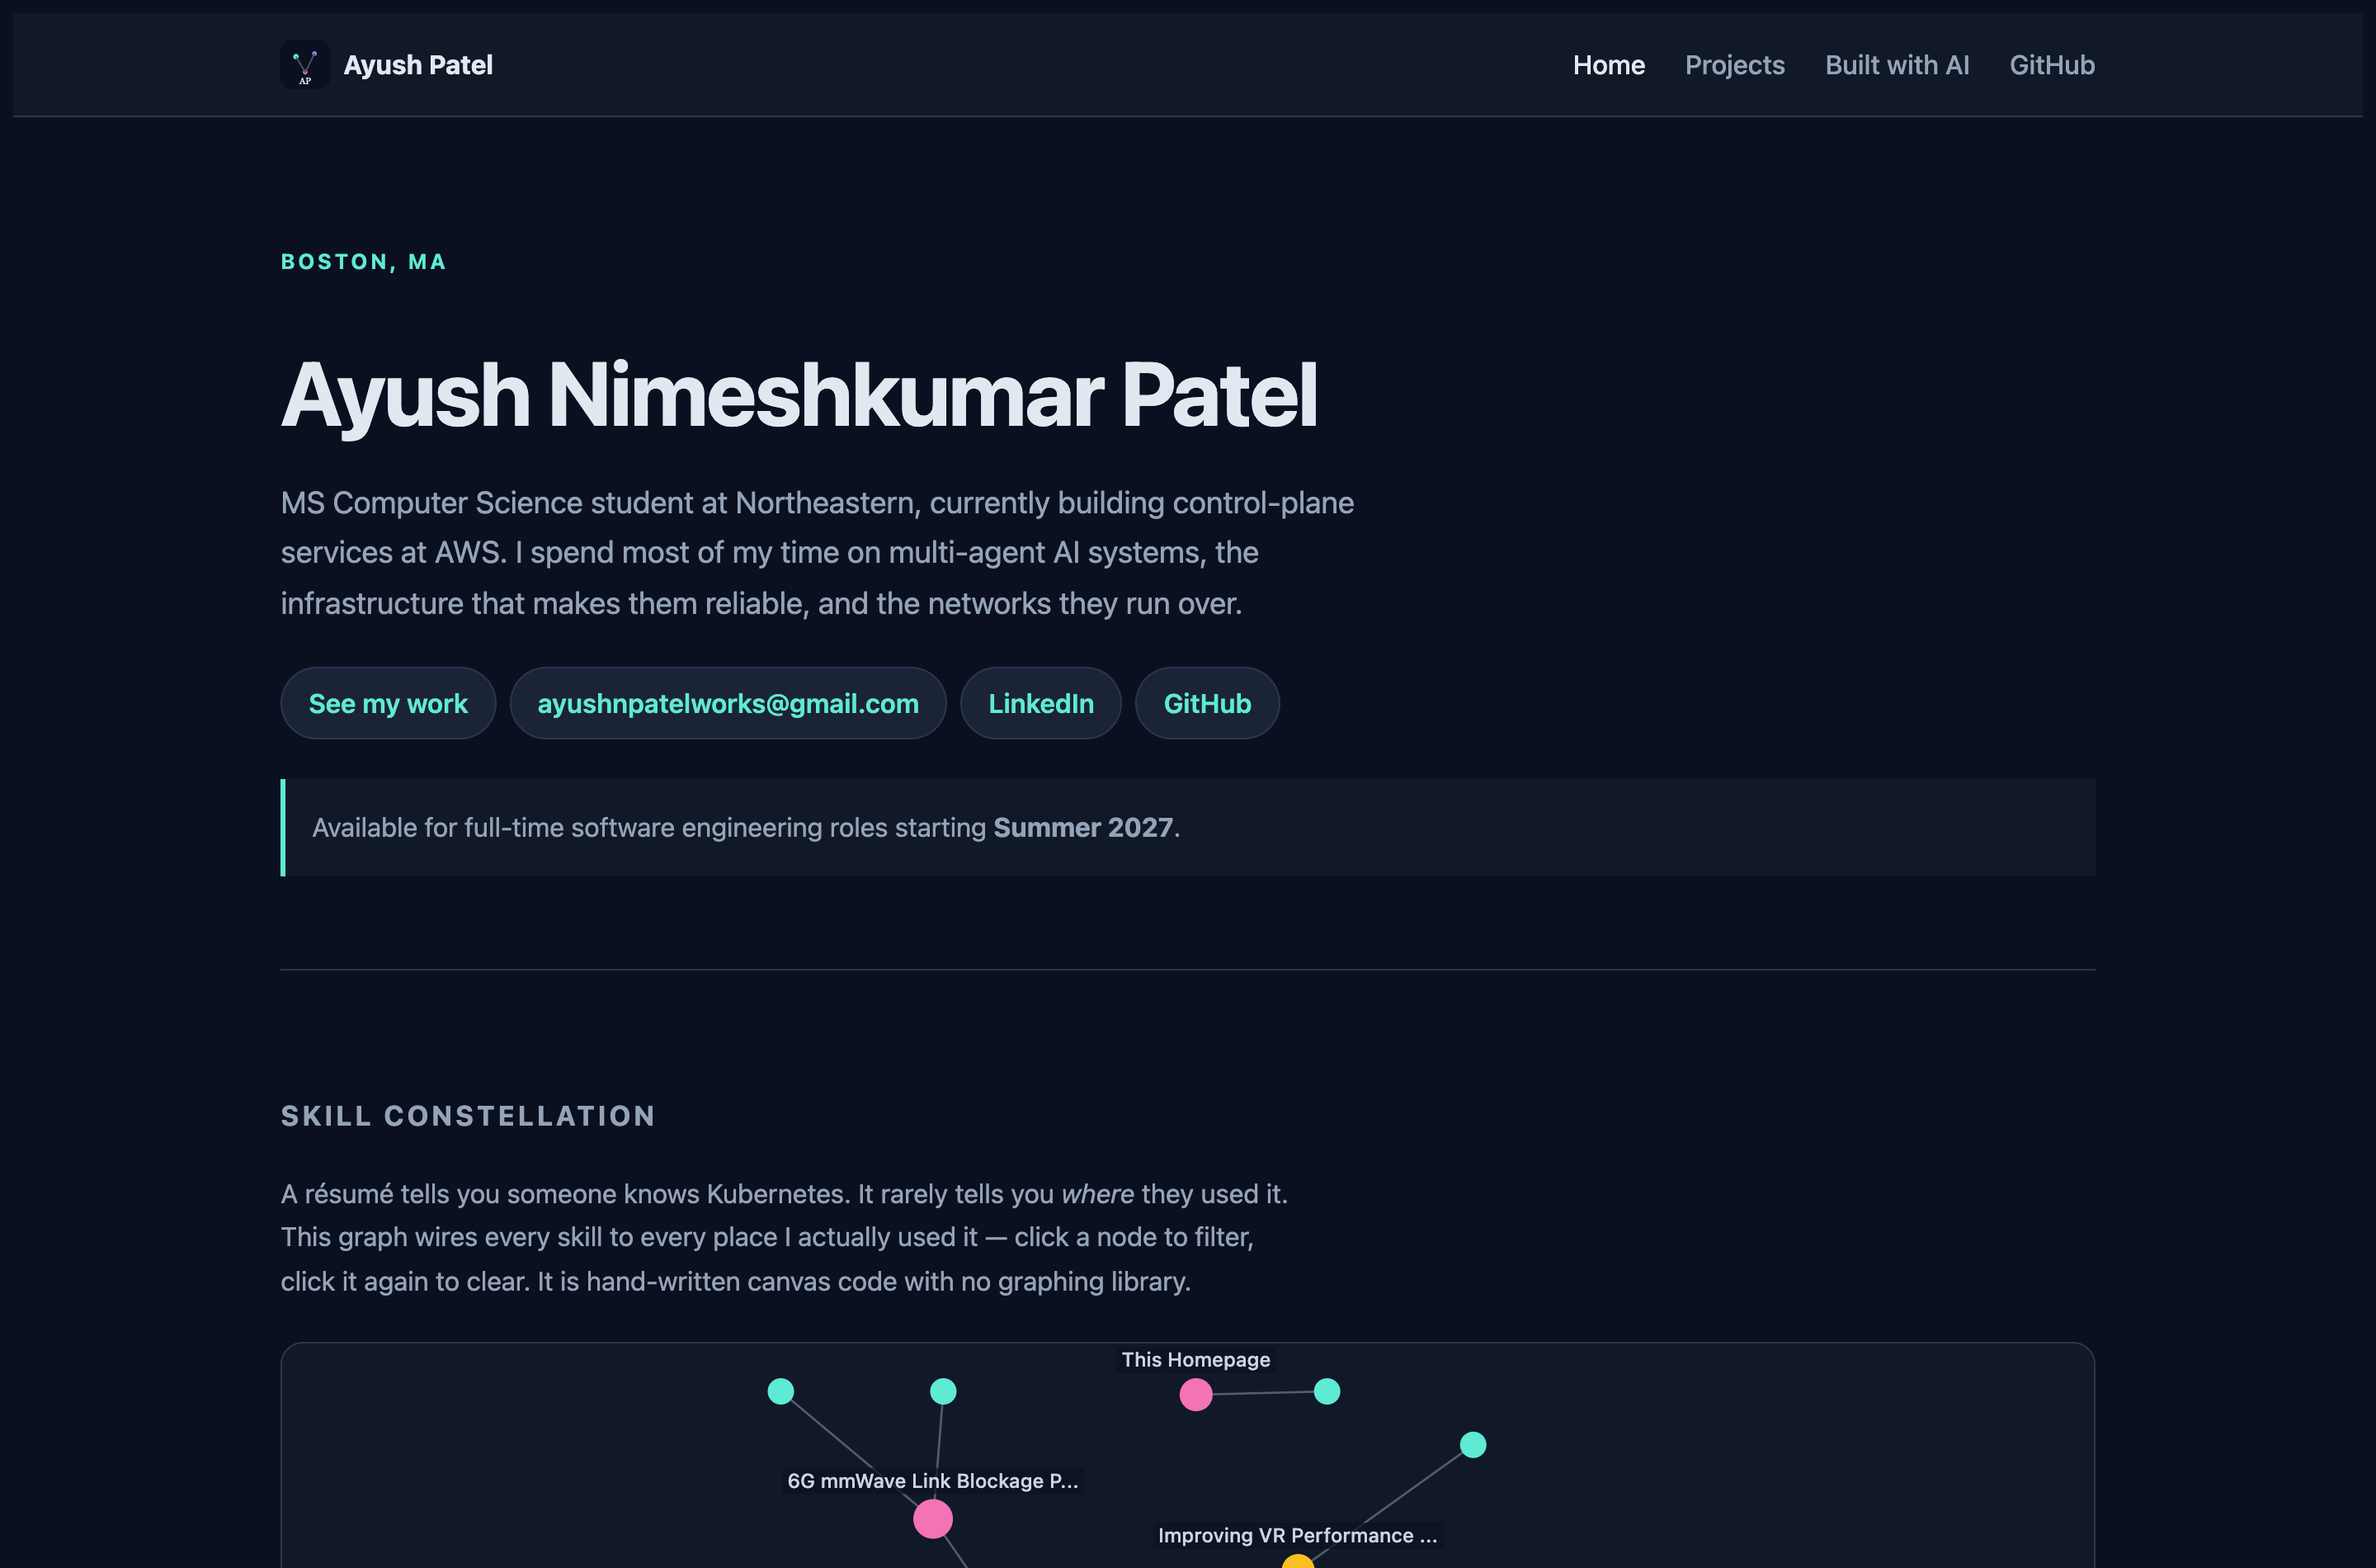
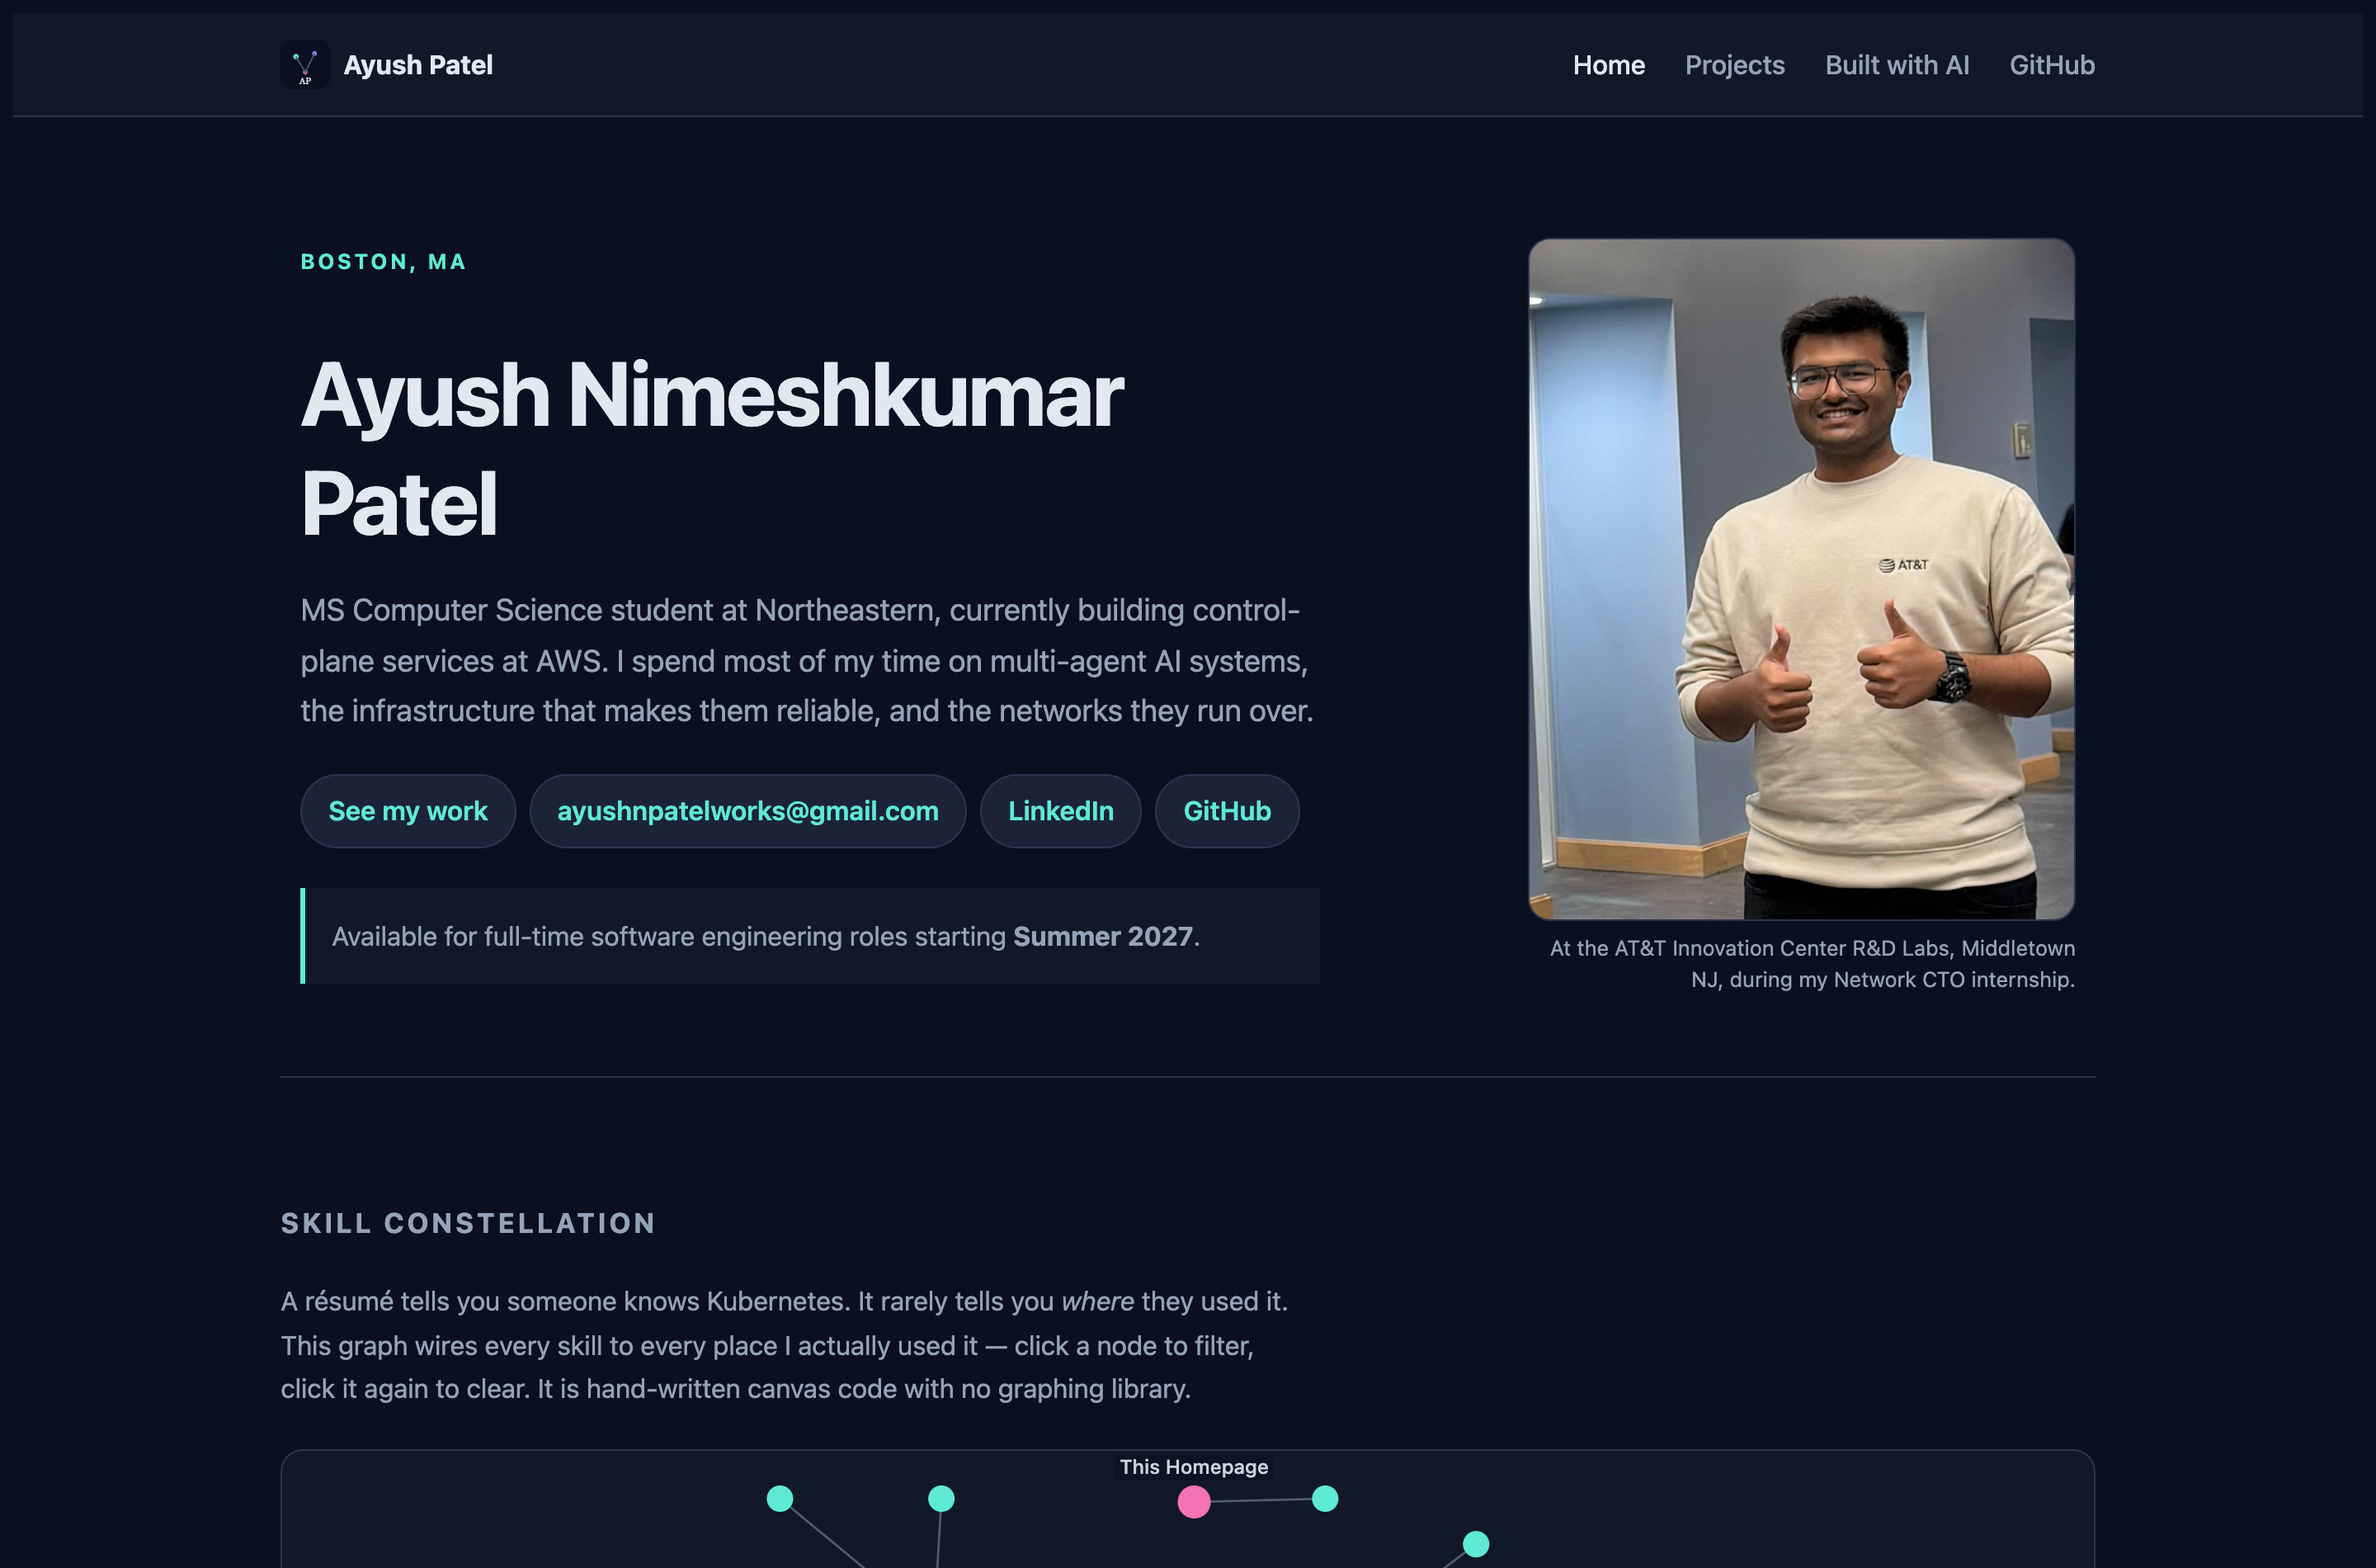
Add a portrait to the hero
Two-column hero on wide screens, stacking on mobile. Photo is cropped
to 4:5 and compressed to 94KB so it does not dominate page weight.
Refreshes the README screenshots to match.

diff --git a/index.html b/index.html
@@ -54,38 +54,59 @@
 
     <main id="main">
       <section class="page-wrap hero">
-        <p class="hero-eyebrow">Boston, MA</p>
-        <h1>Ayush Nimeshkumar Patel</h1>
-        <p class="hero-lede">
-          MS Computer Science student at Northeastern, currently building
-          control-plane services at AWS. I spend most of my time on multi-agent
-          AI systems, the infrastructure that makes them reliable, and the
-          networks they run over.
-        </p>
+        <div class="row g-4 align-items-center">
+          <div class="col-12 col-lg-7">
+            <p class="hero-eyebrow">Boston, MA</p>
+            <h1>Ayush Nimeshkumar Patel</h1>
+            <p class="hero-lede">
+              MS Computer Science student at Northeastern, currently building
+              control-plane services at AWS. I spend most of my time on
+              multi-agent AI systems, the infrastructure that makes them
+              reliable, and the networks they run over.
+            </p>
 
-        <ul class="hero-links">
-          <li><a href="projects.html">See my work</a></li>
-          <li>
-            <a href="mailto:ayushnpatelworks@gmail.com"
-              >ayushnpatelworks@gmail.com</a
-            >
-          </li>
-          <li>
-            <a
-              href="https://www.linkedin.com/in/ayush-patel-912041221/"
-              rel="noopener"
-              >LinkedIn</a
-            >
-          </li>
-          <li>
-            <a href="https://github.com/ayushp2207" rel="noopener">GitHub</a>
-          </li>
-        </ul>
+            <ul class="hero-links">
+              <li><a href="projects.html">See my work</a></li>
+              <li>
+                <a href="mailto:ayushnpatelworks@gmail.com"
+                  >ayushnpatelworks@gmail.com</a
+                >
+              </li>
+              <li>
+                <a
+                  href="https://www.linkedin.com/in/ayush-patel-912041221/"
+                  rel="noopener"
+                  >LinkedIn</a
+                >
+              </li>
+              <li>
+                <a href="https://github.com/ayushp2207" rel="noopener"
+                  >GitHub</a
+                >
+              </li>
+            </ul>
 
-        <p class="hero-availability">
-          Available for full-time software engineering roles starting
-          <strong>Summer 2027</strong>.
-        </p>
+            <p class="hero-availability">
+              Available for full-time software engineering roles starting
+              <strong>Summer 2027</strong>.
+            </p>
+          </div>
+
+          <div class="col-12 col-lg-5">
+            <figure class="hero-portrait">
+              <img
+                src="images/ayush-patel.jpg"
+                alt="Ayush Patel at the AT&amp;T Innovation Center Research and Development Labs"
+                width="840"
+                height="1050"
+              />
+              <figcaption>
+                At the AT&amp;T Innovation Center R&amp;D Labs, Middletown NJ,
+                during my Network CTO internship.
+              </figcaption>
+            </figure>
+          </div>
+        </div>
       </section>
 
       <section class="page-wrap section" aria-labelledby="constellationHeading">

diff --git a/css/main.css b/css/main.css
@@ -643,3 +643,40 @@ canvas:focus-visible {
     transition-duration: 0.001ms;
   }
 }
+
+/* ==========================================================================
+   Hero portrait
+   ========================================================================== */
+
+.hero-portrait {
+  margin: 0;
+}
+
+.hero-portrait img {
+  display: block;
+  width: 100%;
+  max-width: 330px;
+  height: auto;
+  border-radius: var(--radius);
+  border: 1px solid var(--line);
+}
+
+.hero-portrait figcaption {
+  max-width: 330px;
+  margin-top: var(--space-2);
+  font-size: 0.8rem;
+  line-height: 1.45;
+  color: var(--text-muted);
+}
+
+@media (min-width: 992px) {
+  /* Sit the portrait against the right edge of its column on wide screens. */
+  .hero-portrait img,
+  .hero-portrait figcaption {
+    margin-left: auto;
+  }
+
+  .hero-portrait figcaption {
+    text-align: right;
+  }
+}
